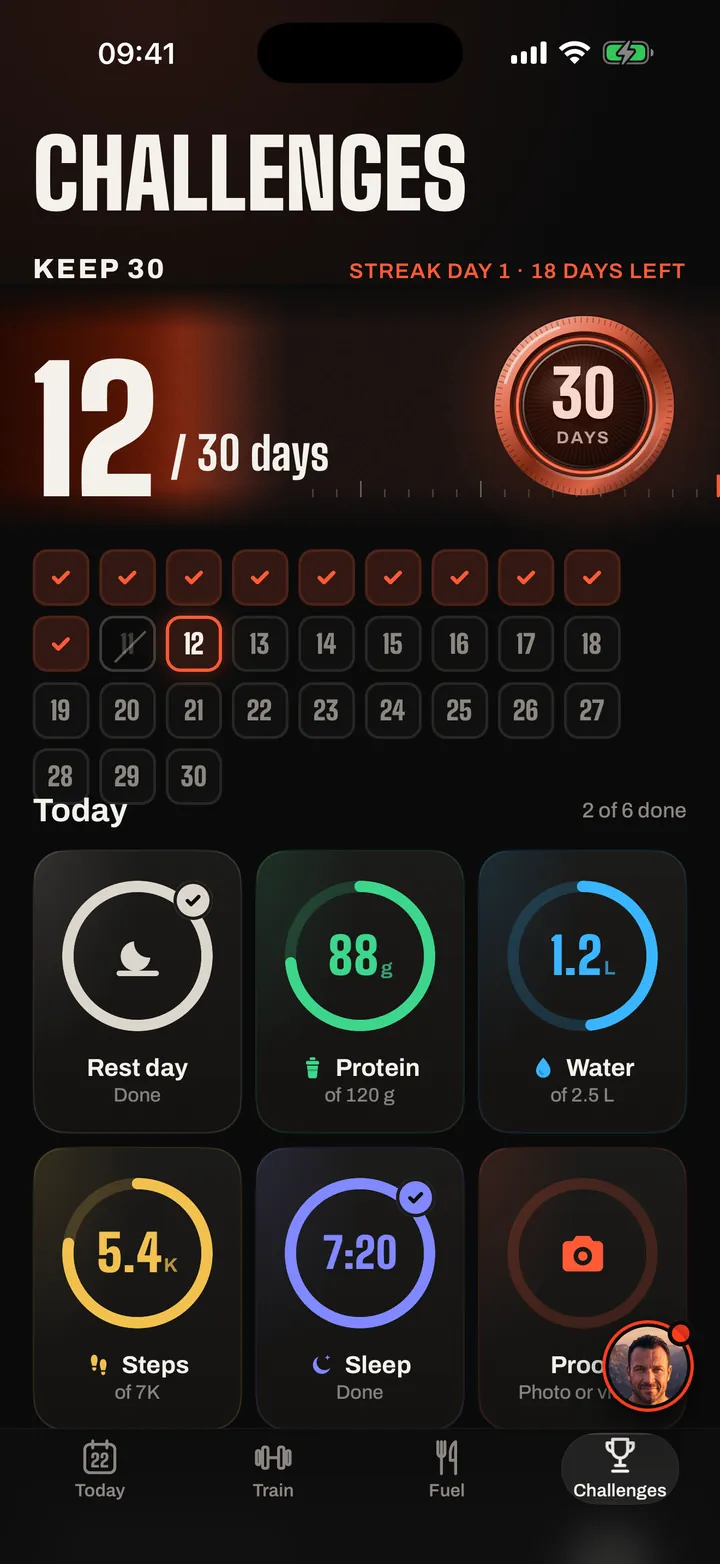
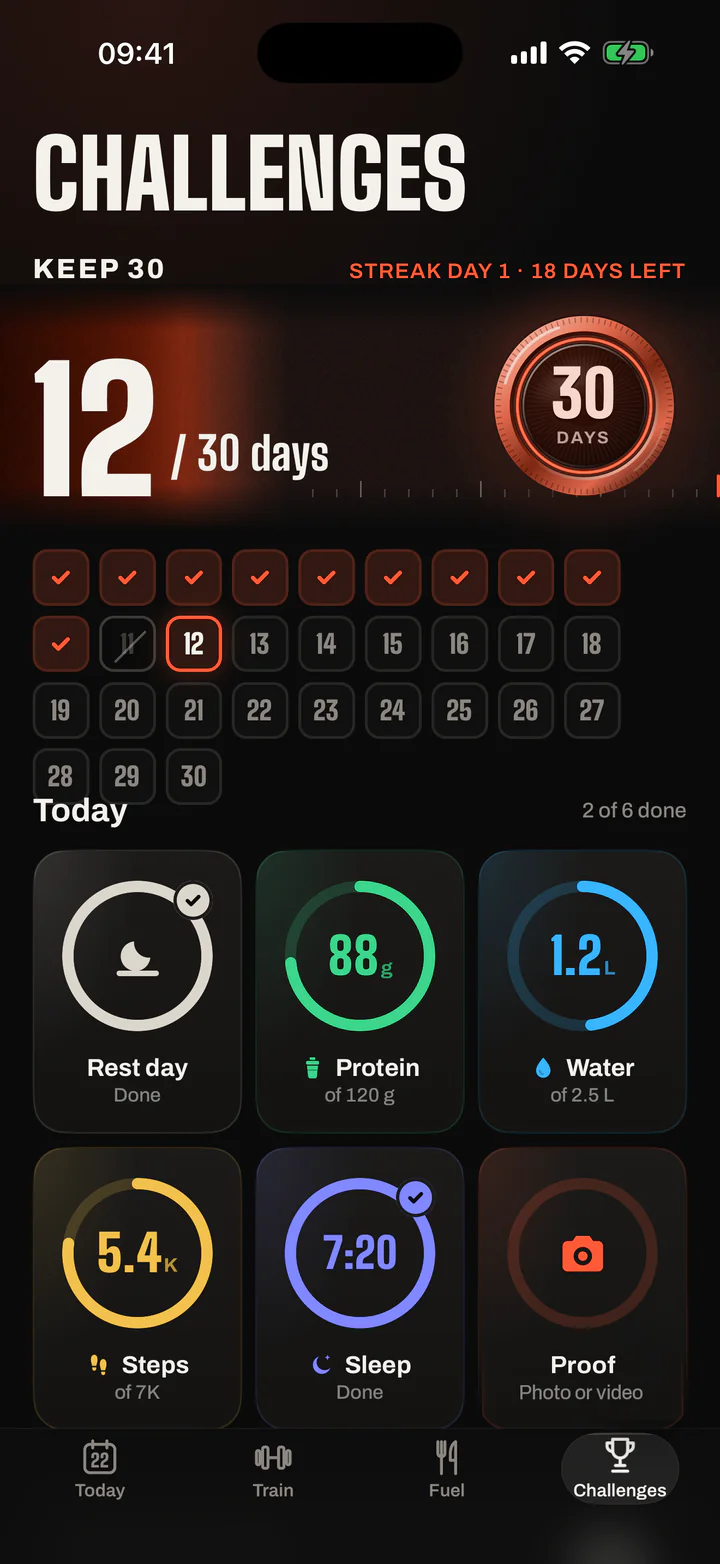
Preview /new/: review fixes (screen centred in frame, label back, sharper hero, clips, fonts)

Changed region(s): [[0.7944, 0.8286, 0.9778, 0.9207]]

diff --git a/new/styles.css b/new/styles.css
@@ -1,8 +1,7 @@
-@font-face{font-family:"Big Shoulders";src:url(assets/fonts/BigShouldersDisplay_900Black.ttf) format("truetype");font-weight:900;font-display:swap}
-@font-face{font-family:"Big Shoulders";src:url(assets/fonts/BigShouldersDisplay_800ExtraBold.ttf) format("truetype");font-weight:800;font-display:swap}
-@font-face{font-family:Archivo;src:url(assets/fonts/Archivo_400Regular.ttf) format("truetype");font-weight:400;font-display:swap}
-@font-face{font-family:Archivo;src:url(assets/fonts/Archivo_600SemiBold.ttf) format("truetype");font-weight:600;font-display:swap}
-@font-face{font-family:Archivo;src:url(assets/fonts/Archivo_800ExtraBold.ttf) format("truetype");font-weight:800;font-display:swap}
+@font-face{font-family:"Big Shoulders";src:url(assets/fonts/BigShouldersDisplay_900Black.woff2) format("woff2"),url(assets/fonts/BigShouldersDisplay_900Black.ttf) format("truetype");font-weight:900;font-display:swap}
+@font-face{font-family:Archivo;src:url(assets/fonts/Archivo_400Regular.woff2) format("woff2"),url(assets/fonts/Archivo_400Regular.ttf) format("truetype");font-weight:400;font-display:swap}
+@font-face{font-family:Archivo;src:url(assets/fonts/Archivo_600SemiBold.woff2) format("woff2"),url(assets/fonts/Archivo_600SemiBold.ttf) format("truetype");font-weight:600;font-display:swap}
+@font-face{font-family:Archivo;src:url(assets/fonts/Archivo_800ExtraBold.woff2) format("woff2"),url(assets/fonts/Archivo_800ExtraBold.ttf) format("truetype");font-weight:800;font-display:swap}
 
 :root{
   --coal:#0b0b0b;--coal2:#17140f;--ink:#0a0806;--bone:#f6f0e6;--oat:#efe5d3;--heat:#ff3b1f;--muted:#b9b2a8;
@@ -23,6 +22,7 @@ em{font-style:normal;color:var(--heat)}
 .nav.solid{background:rgba(10,8,6,.88);-webkit-backdrop-filter:blur(12px);backdrop-filter:blur(12px)}
 .wm{display:flex;align-items:center;gap:9px;text-decoration:none;font:900 22px/1 var(--display);letter-spacing:1px}
 .wm svg{width:28px;height:28px}
+.proto{position:fixed;top:calc(max(14px,env(safe-area-inset-top)) + 42px);left:var(--gut);z-index:60;background:#ffd400;color:#0b0b0b;font:800 10.5px/1 var(--body);letter-spacing:.6px;text-transform:uppercase;padding:5px 9px;border-radius:999px;pointer-events:none;white-space:nowrap}
 .pill{background:var(--heat);color:#fff;text-decoration:none;font-weight:800;font-size:14px;padding:10px 16px;border-radius:999px;min-height:40px;display:inline-flex;align-items:center}
 
 /* store badges: App Store live, Google Play coming soon */
@@ -40,7 +40,7 @@ em{font-style:normal;color:var(--heat)}
 
 /* hero: headline, what the app does, a hand holding the phone (wrist runs off the bottom), store badges.
    --phone-x / --phone-y: the phone's centre inside hero-hand.webp (0-1), so the phone itself sits centred. */
-.hero{--phone-x:.35;--phone-y:.31;--bleed:150px;position:relative;height:100svh;min-height:640px;max-height:1080px;display:flex;flex-direction:column;align-items:center;text-align:center;padding:80px var(--gut) 24px;overflow:hidden;
+.hero{--phone-x:.35;--phone-y:.31;--bleed:150px;position:relative;height:100svh;min-height:640px;max-height:1080px;display:flex;flex-direction:column;align-items:center;text-align:center;padding:88px var(--gut) 24px;overflow:hidden;
   background:radial-gradient(60% 40% at 15% 0%,rgba(31,42,31,.5),transparent 70%)}
 .hero h1{position:relative;z-index:2;font-size:clamp(54px,15vw,150px)}
 .lede{position:relative;z-index:2;max-width:24em;margin:12px auto 0;font-size:16px;line-height:1.45;color:#d6d0c7;text-wrap:balance}
@@ -86,22 +86,23 @@ em{font-style:normal;color:var(--heat)}
 
 /* the app: one phone stays pinned, each step wipes in the next screen and swaps the caption.
    --S = screen width; the bezel and the screens share one grid cell, so they line up without absolute positioning. */
-.tour{--S:min(calc((100svh - 290px)/2.2),76vw,330px);--b:calc(var(--S)*.032);--ti:max(2px,calc(var(--S)*.012));--r:calc(var(--S)*.13);position:relative;height:460svh}
+.tour{--S:min(calc((100svh - 298px)/2.2),76vw,330px);--b:calc(var(--S)*.032);--ti:max(2px,calc(var(--S)*.012));--r:calc(var(--S)*.13);position:relative;height:380svh}
 .tour-stage{position:sticky;top:0;height:100svh;overflow:hidden;display:grid;justify-items:center;align-content:center;row-gap:14px;
-  grid-template-areas:"cap" "dots" "phone";padding:72px var(--gut) 18px;
+  grid-template-areas:"cap" "dots" "phone";padding:80px var(--gut) 18px;
   background:radial-gradient(45% 38% at 50% 64%,rgba(255,59,31,.16),transparent 72%)}
 .step{display:contents}
-.cap{grid-area:cap;align-self:end;text-align:center;width:min(100%,24em);opacity:0;transform:translateY(14px);transition:opacity .3s ease,transform .45s cubic-bezier(.2,.7,.2,1)}
-.step.on .cap{opacity:1;transform:none;transition-delay:.12s}
+.cap{grid-area:cap;align-self:end;text-align:center;width:min(100%,24em);opacity:0;transform:translateY(-10px);transition:opacity .15s ease,transform .25s ease}
+.step:not(.on):not(.past) .cap{transform:translateY(14px)}
+.step.on .cap{opacity:1;transform:none;transition:opacity .3s ease .18s,transform .45s cubic-bezier(.2,.7,.2,1) .18s}
 .cap h3{margin:0;font:900 44px/.9 var(--display);text-transform:uppercase;letter-spacing:.2px;text-wrap:balance}
 .cap p{margin:8px 0 0;font-size:15px;line-height:1.4;color:#d6d0c7;text-wrap:pretty}
-.bezel{grid-area:phone;position:relative;box-sizing:content-box;width:calc(var(--S) + 2*var(--b));height:calc(var(--S)*2.1727 + 2*var(--b));border:var(--ti) solid transparent;border-radius:calc(var(--r) + var(--b) + var(--ti));
+.bezel{grid-area:phone;place-self:center;position:relative;box-sizing:content-box;width:calc(var(--S) + 2*var(--b));height:calc(var(--S)*2.1727 + 2*var(--b));border:var(--ti) solid transparent;border-radius:calc(var(--r) + var(--b) + var(--ti));
   background:linear-gradient(#030303,#030303) padding-box,linear-gradient(140deg,#9a938b 0%,#46413c 14%,#211f1d 40%,#2c2926 66%,#5e5852 88%,#a39c94 100%) border-box;
   box-shadow:0 0 0 1px rgba(255,255,255,.06),0 50px 90px -30px rgba(0,0,0,.9),0 0 110px rgba(255,59,31,.16)}
 .bezel::before,.bezel::after{content:"";position:absolute;width:3px;border-radius:2px;background:linear-gradient(90deg,#5e5852,#8f8881)}
 .bezel::before{right:100%;margin-right:var(--ti);top:17%;height:5%;box-shadow:0 calc(var(--S)*.2) 0 #6c665f,0 calc(var(--S)*.36) 0 #6c665f}
 .bezel::after{left:100%;margin-left:var(--ti);top:26%;height:11%}
-.scr{grid-area:phone;z-index:1;width:var(--S);aspect-ratio:1320/2868;overflow:hidden;border-radius:var(--r);clip-path:inset(100% 0 0 0 round var(--r));transition:clip-path .7s cubic-bezier(.65,0,.25,1)}
+.scr{grid-area:phone;place-self:center;z-index:1;width:var(--S);aspect-ratio:1320/2868;overflow:hidden;border-radius:var(--r);clip-path:inset(100% 0 0 0 round var(--r));transition:clip-path .7s cubic-bezier(.65,0,.25,1)}
 .scr img{width:100%;height:100%;object-fit:cover;transform:translateY(7%);transition:transform .8s cubic-bezier(.2,.7,.2,1)}
 .step.on .scr,.step.past .scr{clip-path:inset(0 0 0 0 round var(--r))}
 .step.on .scr img,.step.past .scr img{transform:none}
@@ -115,7 +116,8 @@ em{font-style:normal;color:var(--heat)}
 .sec{padding:72px var(--gut);max-width:1240px;margin:0 auto}
 .cards{display:grid;gap:14px}
 .cards figure{margin:0;background:var(--coal2);border-radius:18px;overflow:hidden}
-.cards img{width:100%;aspect-ratio:720/380;object-fit:cover}
+.cards picture{display:block}
+.cards img{width:100%;height:auto;aspect-ratio:720/380;object-fit:cover}
 .cards figcaption{padding:12px 16px;font:900 24px/1 var(--display);text-transform:uppercase}
 
 .final{background:var(--heat);color:var(--coal);padding:90px var(--gut) 100px}
@@ -133,6 +135,15 @@ em{font-style:normal;color:var(--heat)}
 
 .sticky-cta{position:fixed;left:12px;right:12px;bottom:max(12px,env(safe-area-inset-bottom));z-index:55;display:flex;justify-content:center;background:rgba(11,11,11,.94);border:1px solid #2a2825;border-radius:16px;padding:8px;transform:translateY(140%);transition:transform .35s ease}
 .sticky-cta.show{transform:none}
+
+/* short phone screens (Safari with toolbars, iPhone SE): smaller headline, no caption line, bigger phone */
+@media (max-width:899px) and (max-height:760px){
+  .tour{--S:min(calc((100svh - 215px)/2.2),76vw,330px)}
+  .tour-stage{padding-top:78px}
+  .cap h3{font-size:36px}
+  .cap p{display:none}
+}
+@media (max-width:899px) and (max-height:600px){.hero{min-height:520px}}
 .sticky-cta .stores{flex-wrap:nowrap;gap:8px;justify-content:center}
 
 /* desktop */
@@ -153,11 +164,10 @@ em{font-style:normal;color:var(--heat)}
   .cap p{margin-top:16px;font-size:19px}
   .dots{justify-self:end;width:min(100%,470px);margin-top:26px;margin-left:-8px}
   .cards{grid-template-columns:repeat(3,1fr)}
-  .qr{display:flex}
 }
 /* wide screens: text on the left, the hand on the right, both hugging the centre line */
-@media (min-width:1000px) and (min-height:560px){
-  .hero{--bleed:0px;display:grid;grid-template-columns:minmax(0,1fr) minmax(0,1fr);grid-template-rows:1fr auto auto auto 1fr;
+@media (min-width:1000px) and (min-height:560px) and (min-aspect-ratio:5/4){
+  .hero{--bleed:0px;--hh:min(104svh,90vw);display:grid;grid-template-columns:minmax(0,1fr) minmax(0,1fr);grid-template-rows:1fr auto auto auto 1fr;
     grid-template-areas:". hand" "h1 hand" "lede hand" "stores hand" ". hand";column-gap:3vw;justify-items:start;text-align:left;padding:0 var(--gut);max-height:none}
   .hero h1,.lede,.hero .stores{justify-self:end;width:min(100%,520px)}
   .hero h1{grid-area:h1;font-size:min(150px,16vh,10.5vw)}
@@ -165,8 +175,8 @@ em{font-style:normal;color:var(--heat)}
   .lede{grid-area:lede;max-width:none;margin:22px 0 0;font-size:20px;text-wrap:pretty}
   .hero .stores{grid-area:stores;justify-content:flex-start;margin-top:34px}
   .hand{grid-area:hand;align-self:stretch;height:auto;margin:0}
-  .hand img{top:11svh;left:30%;height:104svh}
-  .glow{top:calc(11svh + 104svh*var(--phone-y));left:30%;height:90svh}
+  .hand img{top:11svh;left:30%;height:var(--hh);-webkit-mask-image:linear-gradient(180deg,#000 62%,transparent 84%);mask-image:linear-gradient(180deg,#000 62%,transparent 84%)}
+  .glow{top:calc(11svh + var(--hh)*var(--phone-y));left:30%;height:calc(var(--hh)*.865)}
 }
 
 /* reduced motion: the story becomes a plain section */
@@ -175,11 +185,11 @@ em{font-style:normal;color:var(--heat)}
   .glow{animation:none}
   .story{height:auto}
   .stage{position:relative;height:auto;min-height:100svh}
-  .tour{height:auto}
+  .tour{height:auto;--S:min(76vw,330px)}
   .tour-stage{position:relative;height:auto;display:flex;flex-direction:column;align-items:center;gap:72px;padding:88px var(--gut);background:none}
   .bezel,.dots{display:none}
   .step{display:flex;flex-direction:column;align-items:center;gap:22px}
-  .cap,.step.on .cap{opacity:1;transform:none;justify-self:auto;text-align:center;width:min(100%,24em)}
+  .cap,.step.on .cap,.step:not(.on):not(.past) .cap{opacity:1;transform:none;justify-self:auto;text-align:center;width:min(100%,24em)}
   .scr{box-sizing:content-box;aspect-ratio:auto;padding:var(--b);border:var(--ti) solid transparent;border-radius:calc(var(--r) + var(--b) + var(--ti));clip-path:none;
     background:linear-gradient(#030303,#030303) padding-box,linear-gradient(140deg,#9a938b,#2c2926 40%,#5e5852 88%,#a39c94) border-box;box-shadow:0 40px 80px -30px rgba(0,0,0,.9)}
   .scr img{height:auto;transform:none;border-radius:var(--r)}

diff --git a/new/index.html b/new/index.html
@@ -10,6 +10,7 @@
 <link rel="stylesheet" href="styles.css">
 </head>
 <body>
+<div class="proto">Prototype · not live</div>
 
 <header class="nav">
   <a class="wm" href="#top" aria-label="FireKeep home"><svg viewBox="0 0 100 100" aria-hidden="true"><rect width="100" height="100" fill="#000"/><path d="M15 15h70v17H36v6h30v14H36v33H15z" fill="#f3f0eb"/><rect x="42" y="57" width="43" height="28" fill="#ff3b1f"/></svg><span>FIREKEEP</span></a>
@@ -25,7 +26,7 @@
   <!-- transparent cut-out (hand + iPhone + wrist). --phone-x / --phone-y in styles.css = where the phone's centre sits in this image -->
   <figure class="hand">
     <div class="glow" aria-hidden="true"></div>
-    <img src="assets/img/app/hero-hand.webp" alt="A hand holding an iPhone with the FireKeep Today screen" width="900" height="1600" fetchpriority="high">
+    <img src="assets/img/app/hero-hand.webp" srcset="assets/img/app/hero-hand.webp 935w, assets/img/app/hero-hand@2x.webp 1400w" sizes="(min-width:1000px) 600px, 110vw" alt="A hand holding an iPhone with the FireKeep Today screen" width="935" height="1600" fetchpriority="high">
   </figure>
   <div class="stores"><a class="badge" href="#get" data-store="ios" aria-label="Download on the App Store"><svg class="ap" viewBox="0 0 24 24" aria-hidden="true"><path d="M12.152 6.896c-.948 0-2.415-1.078-3.96-1.04-2.04.027-3.91 1.183-4.961 3.014-2.117 3.675-.546 9.103 1.519 12.09 1.013 1.454 2.208 3.09 3.792 3.039 1.52-.065 2.09-.987 3.935-.987 1.831 0 2.35.987 3.96.948 1.637-.026 2.676-1.48 3.676-2.948 1.156-1.688 1.636-3.325 1.662-3.415-.039-.013-3.182-1.221-3.22-4.857-.026-3.04 2.48-4.494 2.597-4.559-1.429-2.09-3.623-2.324-4.39-2.376-2-.156-3.675 1.09-4.61 1.09zM15.53 3.83c.843-1.012 1.4-2.427 1.245-3.83-1.207.052-2.662.805-3.532 1.818-.78.896-1.454 2.338-1.273 3.714 1.338.104 2.715-.688 3.559-1.701"/></svg><span><small>Download on the</small><b>App Store</b></span></a><span class="badge soon" data-store="android" aria-label="Google Play, coming soon"><svg class="gp" viewBox="0 0 24 26" aria-hidden="true"><path d="M1.5 1.2 13.4 13 1.5 24.8c-.3-.2-.5-.6-.5-1.1V2.3c0-.5.2-.9.5-1.1z" fill="#00a0ff"/><path d="M17.4 17 13.4 13l4-4 4.8 2.7c1.4.8 1.4 2 0 2.8z" fill="#ffbc00"/><path d="M17.4 17 13.4 13 1.5 24.8c.4.4 1.1.5 1.9.1z" fill="#ff3a44"/><path d="M17.4 9 3.4 1.1C2.6.7 1.9.8 1.5 1.2L13.4 13z" fill="#00f076"/></svg><span><small>Coming soon</small><b>Google Play</b></span></span></div>
 </section>
@@ -46,7 +47,7 @@
         <div class="dayrow">
           <div class="day"><small>Day</small><span class="num">1</span></div>
           <div class="side">
-            <p class="line"><img src="assets/img/people/coach.webp" alt=""><span><small>Your coach</small><span class="txt"></span></span></p>
+            <p class="line"><img src="assets/img/people/coach-avatar.webp" alt="" width="40" height="40"><span><small>Your coach</small><span class="txt"></span></span></p>
             <div class="blocks" aria-hidden="true"><i>Shake · 25g</i><i>Chicken · 30g</i><i>Yogurt · 15g</i><i>Eggs · 12g</i></div>
           </div>
         </div>
@@ -62,15 +63,11 @@
 </section>
 
 <!-- 4 THE APP: one phone stays pinned while you scroll; each step swaps the screen and the caption.
-     Review hook: #app=1..5 jumps to a step. Reduced motion: a plain list. -->
+     Review hook: #app=1..4 jumps to a step. Reduced motion: a plain list. -->
 <section class="tour" id="app" aria-label="The app">
   <div class="tour-stage">
     <div class="bezel" aria-hidden="true"></div>
     <article class="step on">
-      <div class="cap"><h3>Your day, lit&nbsp;up.</h3><p>Small daily rules. Tick them off one by one.</p></div>
-      <div class="scr"><img src="assets/img/app/hero-today.webp" alt="Today screen: your daily rules for training, protein, water, steps and sleep" width="720" height="1564" loading="lazy"></div>
-    </article>
-    <article class="step">
       <div class="cap"><h3>Keep the streak.</h3><p>Pick a challenge. Light up a square every day.</p></div>
       <div class="scr"><img src="assets/img/app/tour-challenges.webp" alt="Challenges screen: your streak, one square for each day" width="720" height="1564" loading="lazy"></div>
     </article>
@@ -83,19 +80,20 @@
       <div class="scr"><img src="assets/img/app/tour-train.webp" alt="Train screen: this week's plan, with gym, home and outdoor options" width="720" height="1564" loading="lazy"></div>
     </article>
     <article class="step">
-      <div class="cap"><h3>Protein, made simple.</h3><p>Protein, carbs, fat and water at a glance.</p></div>
+      <div class="cap"><h3>Protein first.</h3><p>Protein, carbs, fat and water at a glance.</p></div>
       <div class="scr"><img src="assets/img/app/tour-fuel.webp" alt="Fuel screen: protein, carbs, fat and water for today" width="720" height="1564" loading="lazy"></div>
     </article>
-    <div class="dots" role="group" aria-label="App tour steps"><button type="button" aria-label="Today" aria-current="step"></button><button type="button" aria-label="Challenges"></button><button type="button" aria-label="Workout"></button><button type="button" aria-label="Train"></button><button type="button" aria-label="Fuel"></button></div>
+    <div class="dots" role="group" aria-label="App tour steps"><button type="button" aria-label="Challenges" aria-current="step"></button><button type="button" aria-label="Workout"></button><button type="button" aria-label="Train"></button><button type="button" aria-label="Fuel"></button></div>
   </div>
 </section>
 
 <!-- 5 MOVES -->
 <section class="sec moves" aria-label="Moves">
+  <!-- the app's own move clips (looping, silent); a still frame mid-move when Reduce Motion is on -->
   <div class="cards">
-    <figure><img src="assets/img/clips/slot-sit-to-stand.webp" alt="Sit-to-stand" loading="lazy"><figcaption>Sit-to-stand</figcaption></figure>
-    <figure><img src="assets/img/clips/slot-glute-bridge.webp" alt="Glute bridge" loading="lazy"><figcaption>Glute bridge</figcaption></figure>
-    <figure><img src="assets/img/clips/slot-band-pull-apart.webp" alt="Band pull-apart" loading="lazy"><figcaption>Band pull-apart</figcaption></figure>
+    <figure><picture><source media="(prefers-reduced-motion: reduce)" srcset="assets/img/clips/move-sit-to-stand-still.webp"><img src="assets/img/clips/move-sit-to-stand.webp" alt="Sit-to-stand: sitting down to a chair and standing back up" width="720" height="380" loading="lazy"></picture><figcaption>Sit-to-stand</figcaption></figure>
+    <figure><picture><source media="(prefers-reduced-motion: reduce)" srcset="assets/img/clips/move-glute-bridge-still.webp"><img src="assets/img/clips/move-glute-bridge.webp" alt="Glute bridge: lying on a mat, lifting the hips" width="720" height="380" loading="lazy"></picture><figcaption>Glute bridge</figcaption></figure>
+    <figure><picture><source media="(prefers-reduced-motion: reduce)" srcset="assets/img/clips/move-band-pull-apart-still.webp"><img src="assets/img/clips/move-band-pull-apart.webp" alt="Band pull-apart: arms wide, pulling a band across the chest" width="720" height="380" loading="lazy"></picture><figcaption>Band pull-apart</figcaption></figure>
   </div>
 </section>
 
